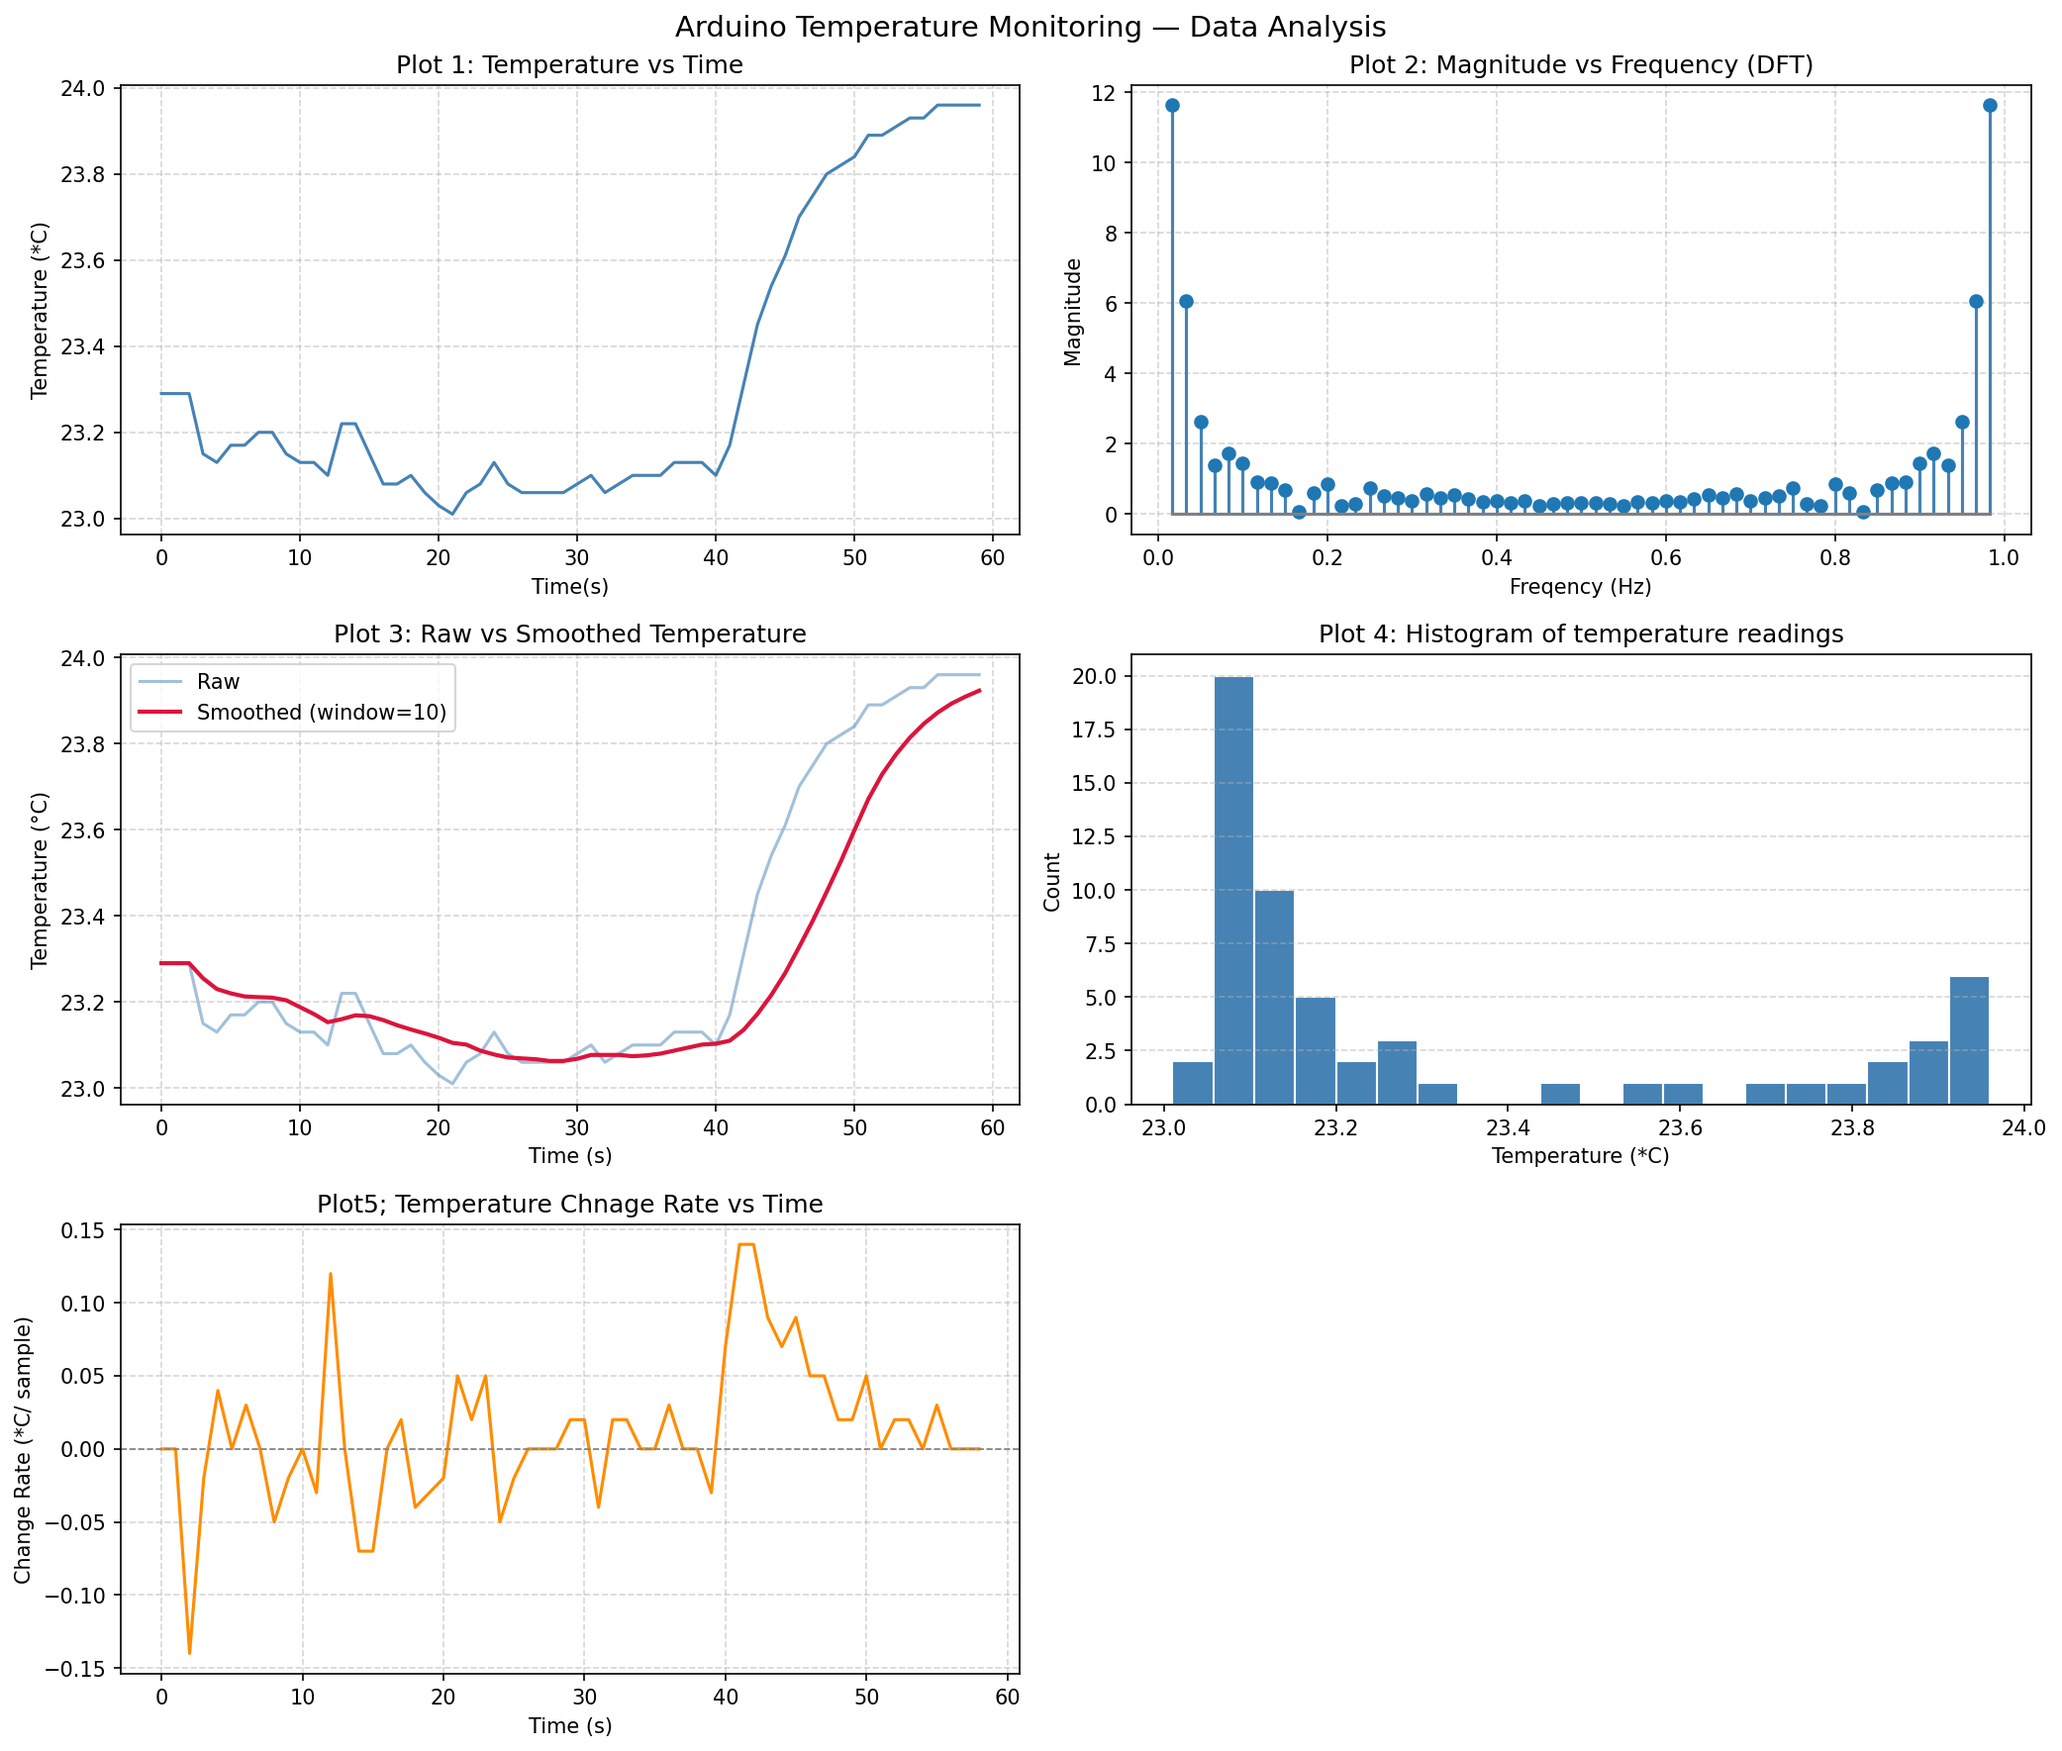
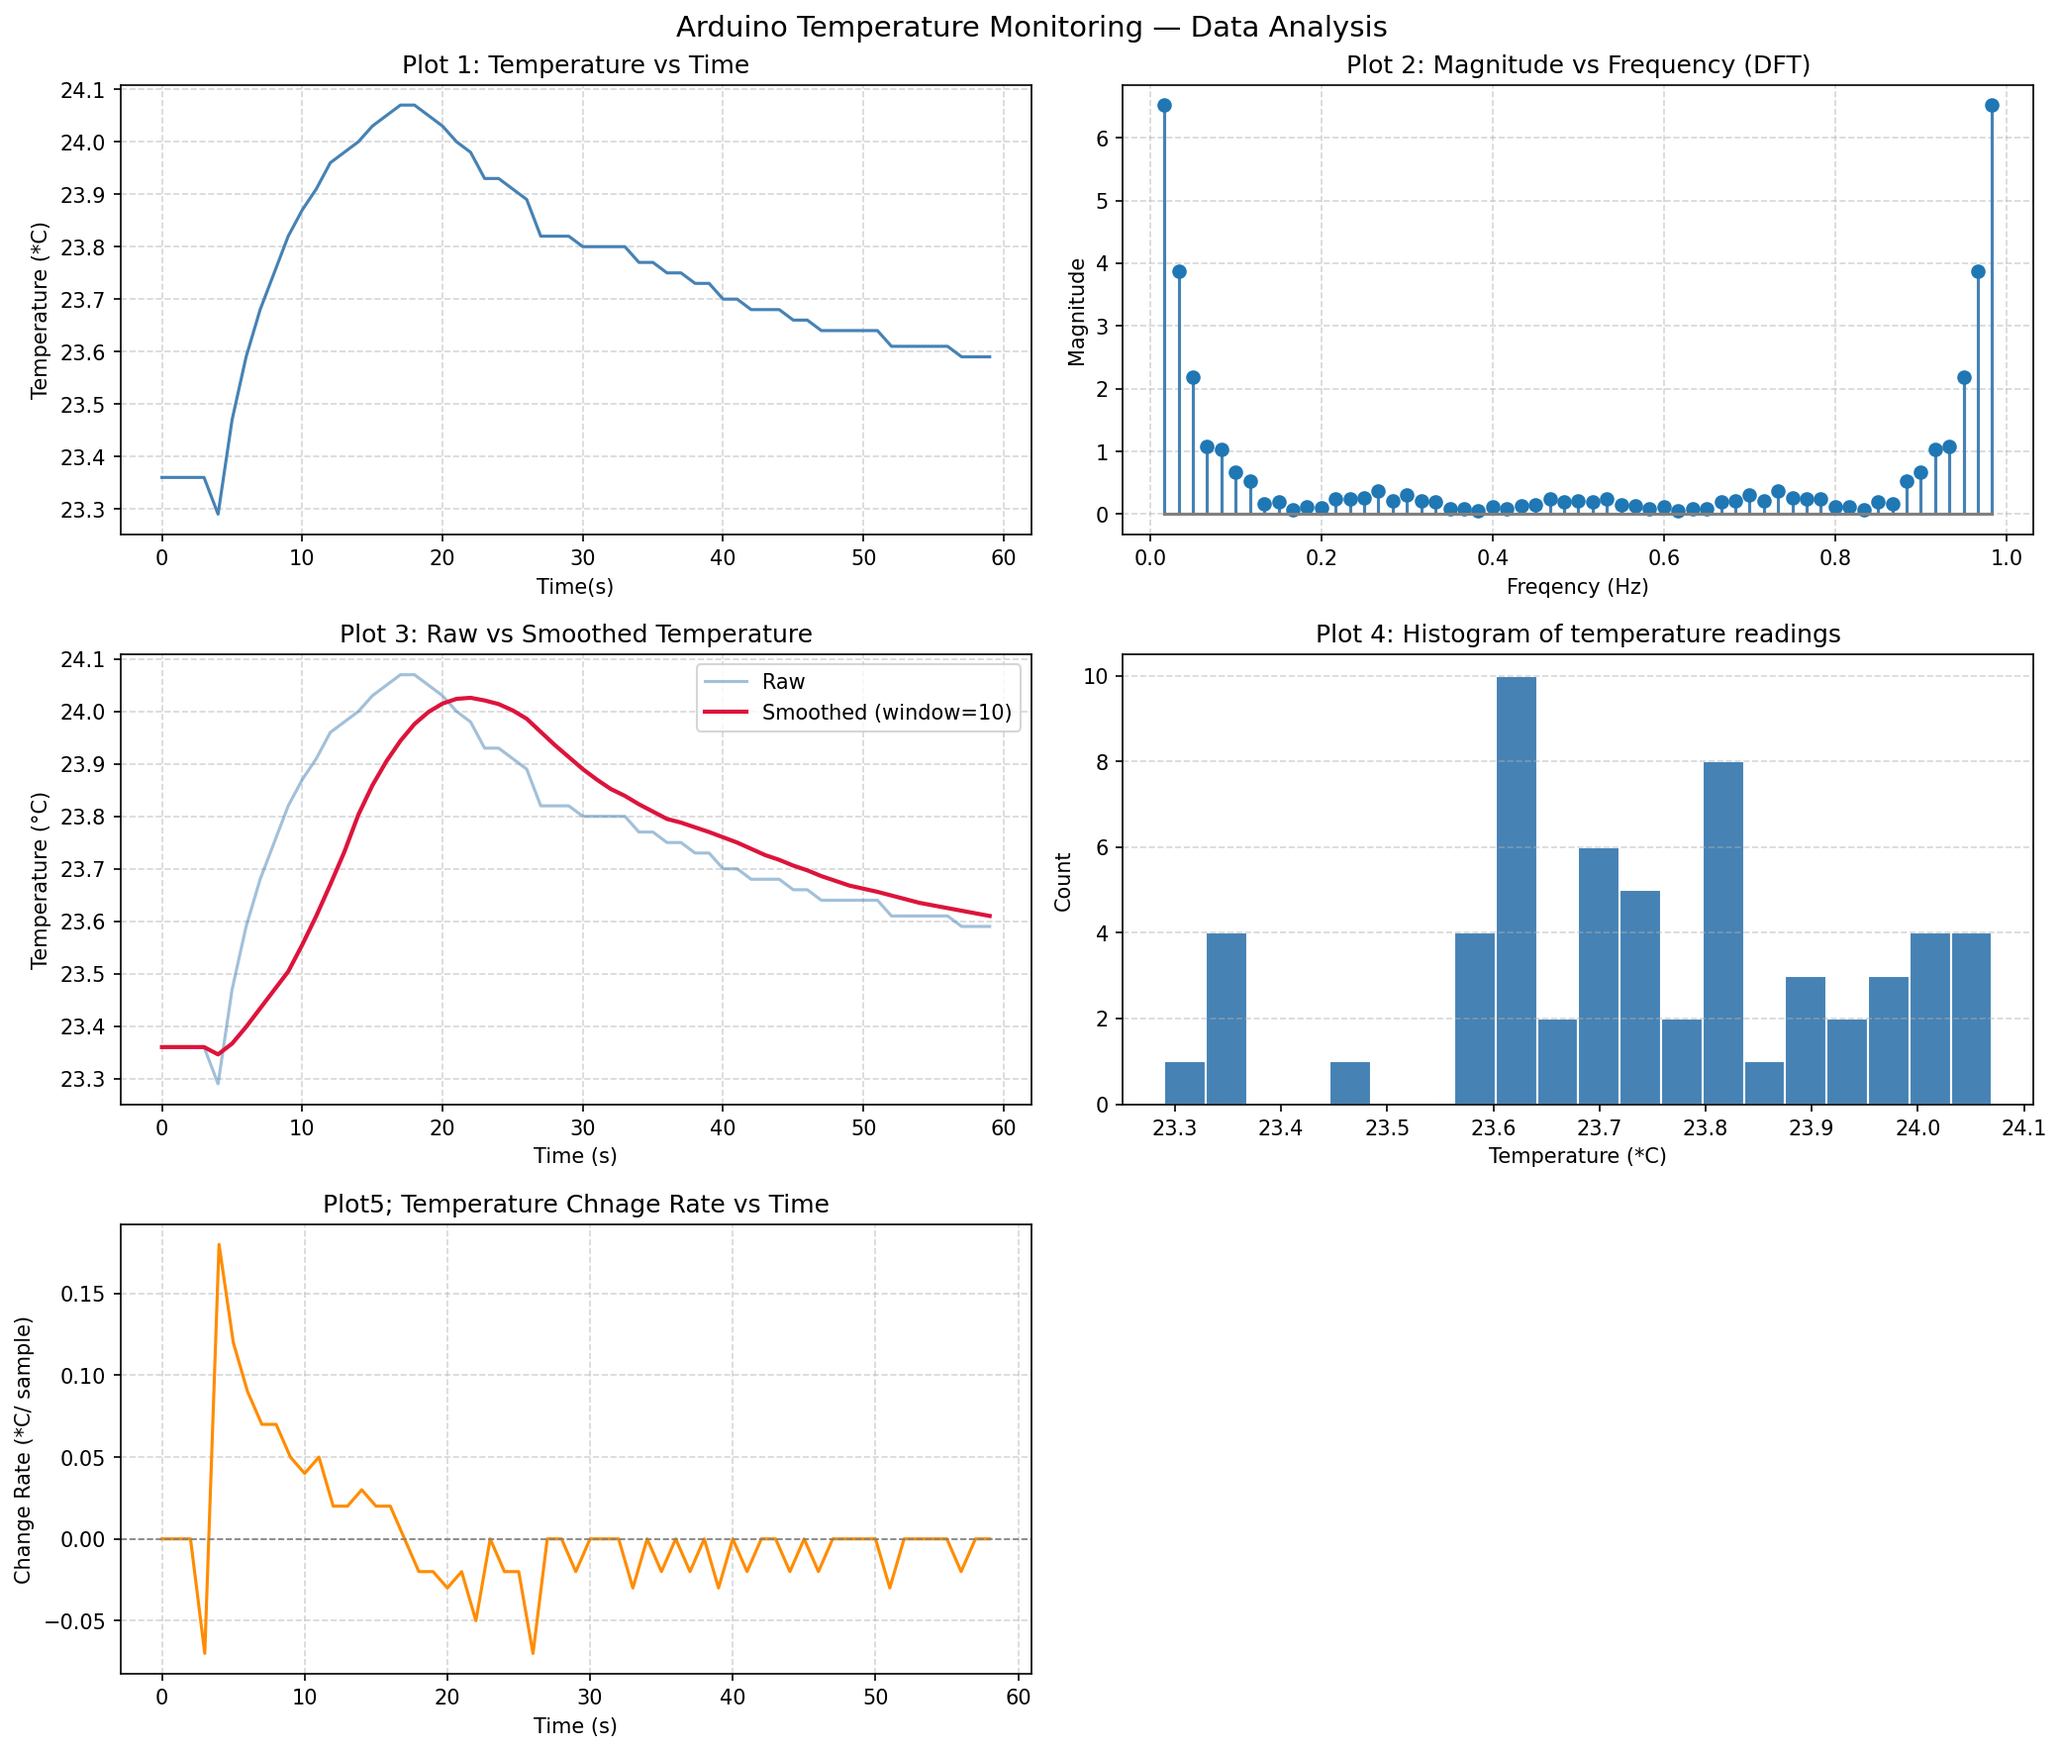
Changed the Example graph to explain within the discussion.md (new), so needed to change where the picture is stored within analyse temperature. Need to add file locations to all the right places next

diff --git a/arduino/Arduino Task/analyse_temperature.py b/arduino/Arduino Task/analyse_temperature.py
@@ -73,6 +73,6 @@ axes[2,1].set_visible(False)
 
 # Saving the plot as a PNG to show the program can output graphical files.
 plt.tight_layout()
-plt.savefig("temperature_analysis.png", dpi = 150, bbox_inches = "tight")
-print("Saved to temperature_analysis.png")
+plt.savefig("temperature_analysis_live.png", dpi = 150, bbox_inches = "tight")
+print("Saved to temperature_analysis_live.png")
 plt.show()

diff --git a/documentation/how_to_run_code.md b/documentation/how_to_run_code.md
@@ -6,11 +6,11 @@ This comes as multiple steps, as I needed to use multiple files to do each of th
 
 Close 
 
-The order is uploading the file temperature_optimisation(insert filepath) into the arduino. I had better results using the Arduino IDE to upload the code to the arduino, but if there is no problems with the VScode setup on your end then hopefully it should be fine.
+The order is uploading the file temperature_optimisation (insert filepath) into the arduino. I had better results using the Arduino IDE to upload the code to the arduino, but if there is no problems with the VScode setup on your end then hopefully it should be fine.
 If you go Arduino IDE route:
 
 Upload the code to the Arduino, start the serial monitor, where it should wait a little while (approx 1min), then it should print all the results at once with # END being visible at the end of the Serial Monitor. This tests to see if it works. stop the serial monitor and close the Arduino IDE
 
 Now go back to VScode, open capture_serial.py located at (insert file location). run the file as you would a standard python file, click run or F5. It should do the same thing as the Arduino code where it should wait a little while (approx 1min), except the difference is the values are now stored in a CSV. The CSV file will be generated automatically. The end should say "Saved to temperature_data.csv"
 
-Once it has said the values have been stored, run the analyse_temperature.py file (insert file location), and this should generate 5 graphs according to the brief. This will also save those graphs into temperature_analysis.png, which can be further analysed.
+Once it has said the values have been stored, run the analyse_temperature.py file (insert file location), and this should generate 5 graphs according to the brief. This will also save those graphs into temperature_analysis_live.png, which can be further analysed.

diff --git a/documentation/Discussion.md b/documentation/Discussion.md
@@ -1,0 +1,24 @@
+The experiment:
+Warmed up the sensor by hand, and let it cool to room temperature
+
+The graph example I will be taking is in the temperature_analysis.png.
+
+
+Time-Domain Behaviour:
+Temperature started at ~23.3, and rose to ~24.1 at around 18s.
+plot 5 confirms this with the spike at the change rate between 0-10 seconds, and then sustaining negative values as it cooled
+The signal is smooth, minimal noise.
+
+Frequency- Domain
+Plot 2 shows dominant energy at low frequencies, (~0.05Hz)
+Spike near 1.0Hz shows the initial rapid warming, fast change in temperature results in high frequency content in DFT
+most mid range frequencies are near 0, confirming there are no rapid periodic oscillations.
+
+System behavior
+The dominant frequency ~0.05Hz would trigger the Idle or Power Down mode correctly,
+The rapid initial warning pushed it into ACTIVE MODE
+Moving average would correctly track the warming trend.
+
+Data Quality
+This captured 1 minute of the sensor data, although the brief recommended 3 minutes.I had issues with the amount of storage available on the arduino itself, so needed to cut down the sample time to make up for it. It can be run 3 times to get the values for 3 minutes worth.
+1Hz sampling was enough to show the smaller changes in temperature, no details were missed.
